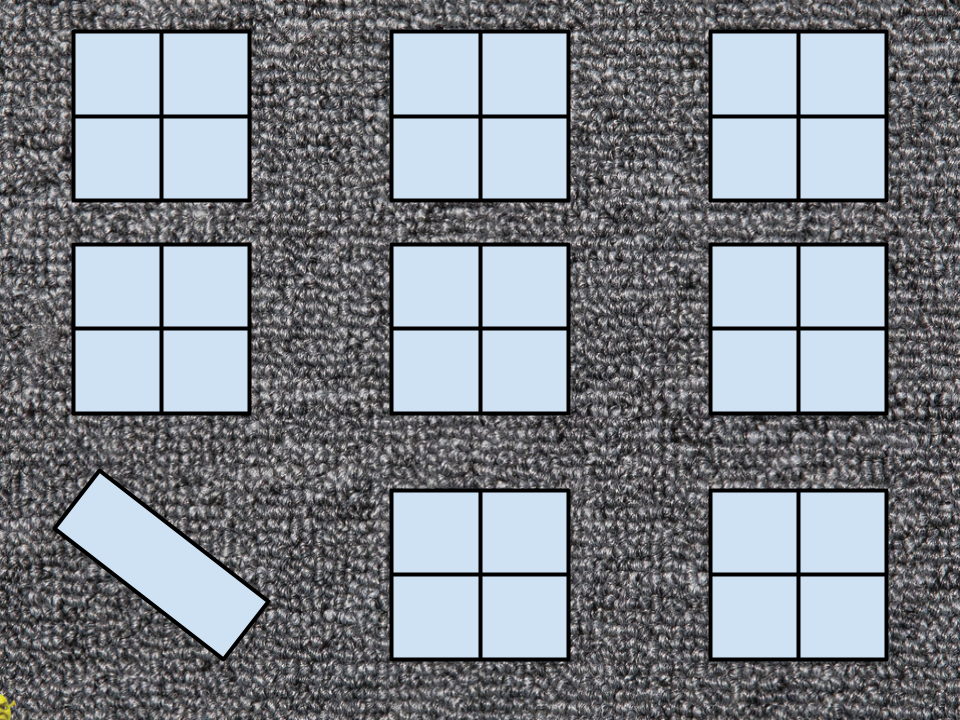
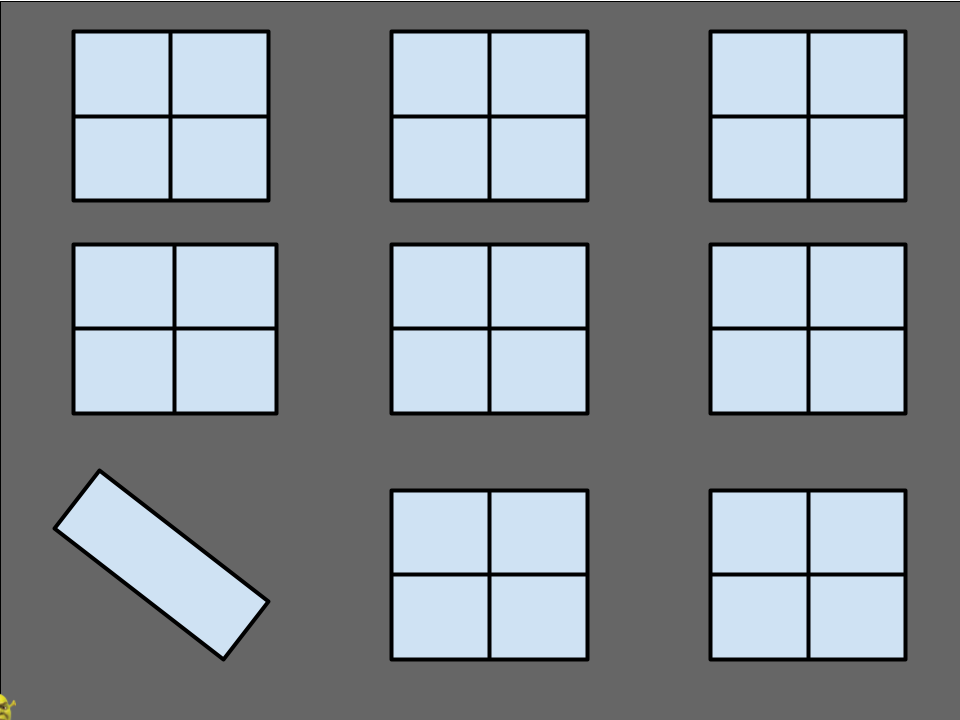
Formatting finished

diff --git a/screen.cpp b/screen.cpp
@@ -15,6 +15,13 @@ void screen::initVariables(){
     this->students = readCsv();
 }
 
+/**
+ * Read from CSV and put into vector of vector strings
+ * 
+ * vector<vector<string>> allows for future track of 
+ * partner pair if ever implemented
+ *
+ */
 vector<vector<string>> screen::readCsv(){
     vector<vector<string>> content;
 
@@ -60,9 +67,8 @@ void screen::initFonts(){
 }
 
 /**
- * Creates a global text variable that is meant to display
+ * Creates global text variables that is meant to display
  * a simple message on the window.
- *
  */
 void screen::initMessages(){
     sf::Text defaultMessage[students.size()];
@@ -82,7 +88,7 @@ void screen::initMessages(){
     this->initSeatPos();
 }
 
-//TODO basic random function needs to be updated
+// Very basic random function
 void screen::randomize(){
     auto rd = std::random_device {}; 
     auto rng = std::default_random_engine { rd() };
@@ -90,11 +96,12 @@ void screen::randomize(){
 }
 
 // This is a mess and will only work for this lab
+// There was very little thought into the future proof of this part
 void screen::initSeatPos(){
-    // Pixel spacing [{80,70},{170,80}{400,80}, {490,80}]
+    // Pixel spacing for first row[{80,70},{170,80}{400,80}, {490,80}]
     int y = 70;
     for(int j = 0; j < 4; j++){
-        int x = 80;
+        int x = 85;
         if (j == 2)
             y+=50;
         for(int i = 0; i < 6; i++){ //Rows
@@ -104,10 +111,10 @@ void screen::initSeatPos(){
         }
     }
     y = 530;
-    int x = 395;
+    int x = 400;
     int spot = 24; //After instructor table
     for(int l = 0; l <= 1; l++){
-        x = 395;
+        x = 400;
         for(int z = 0; z < 4; z++){
             if(z == 2)
                 x+= 140;
